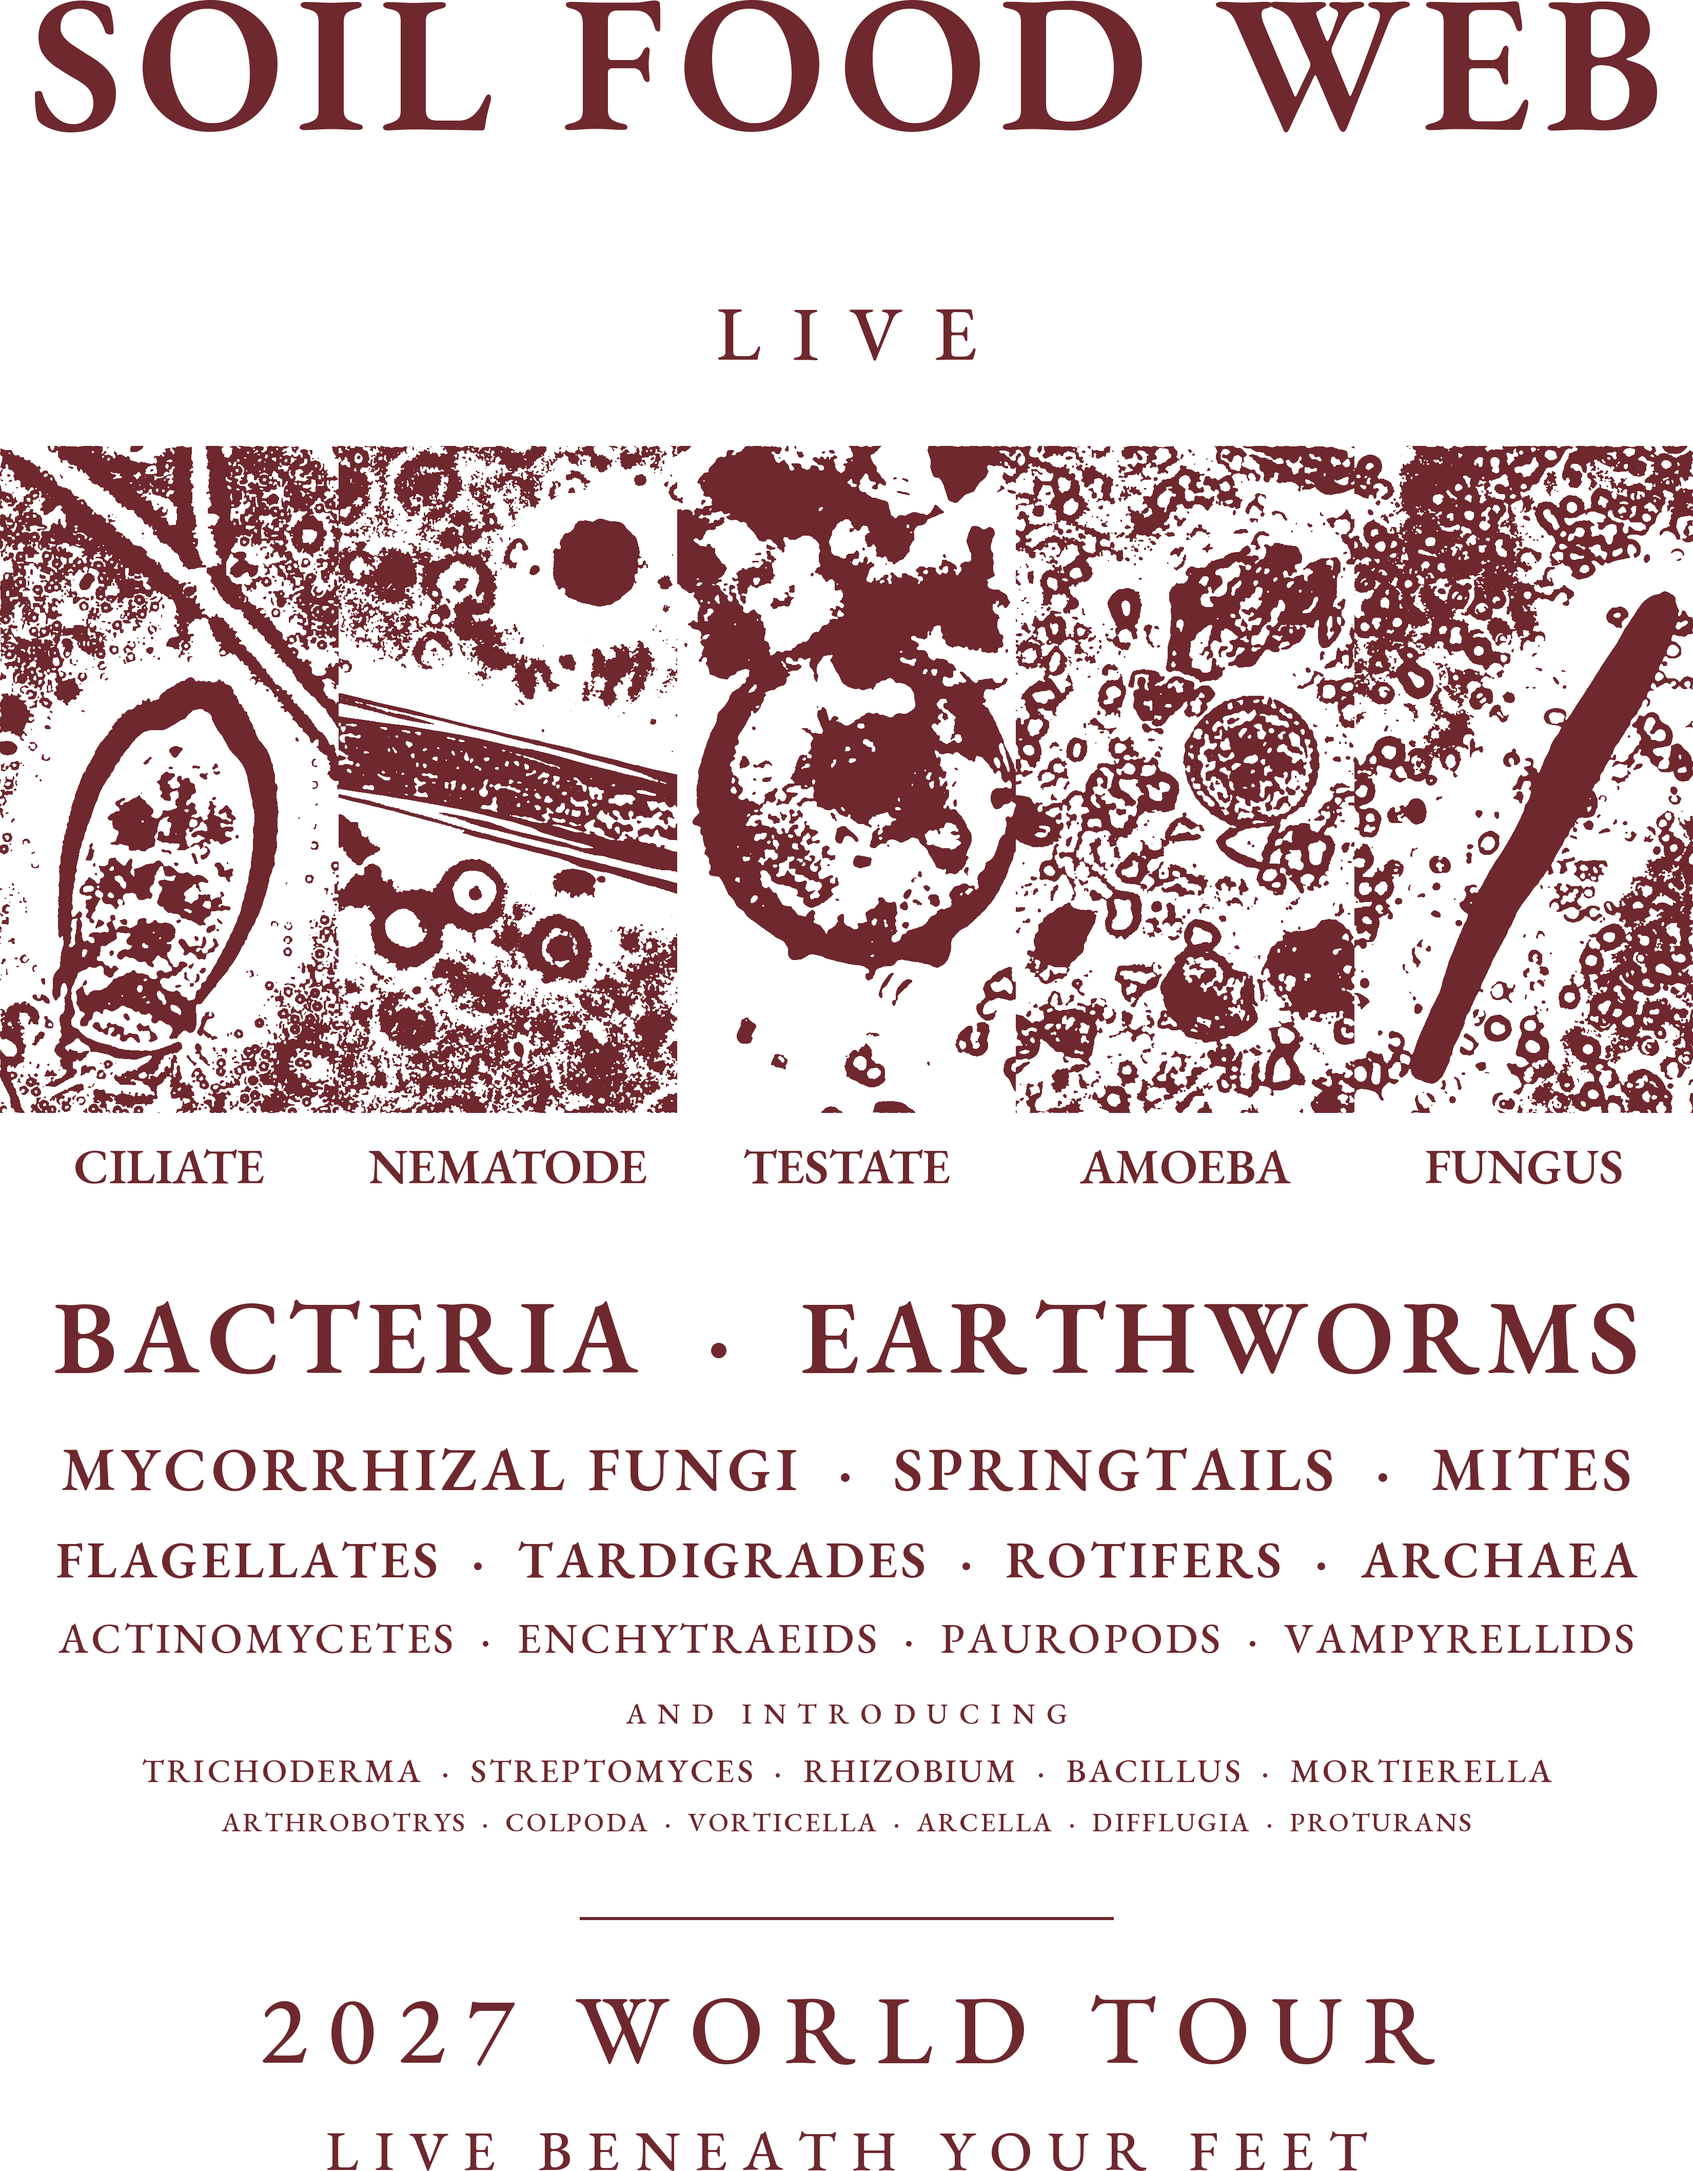
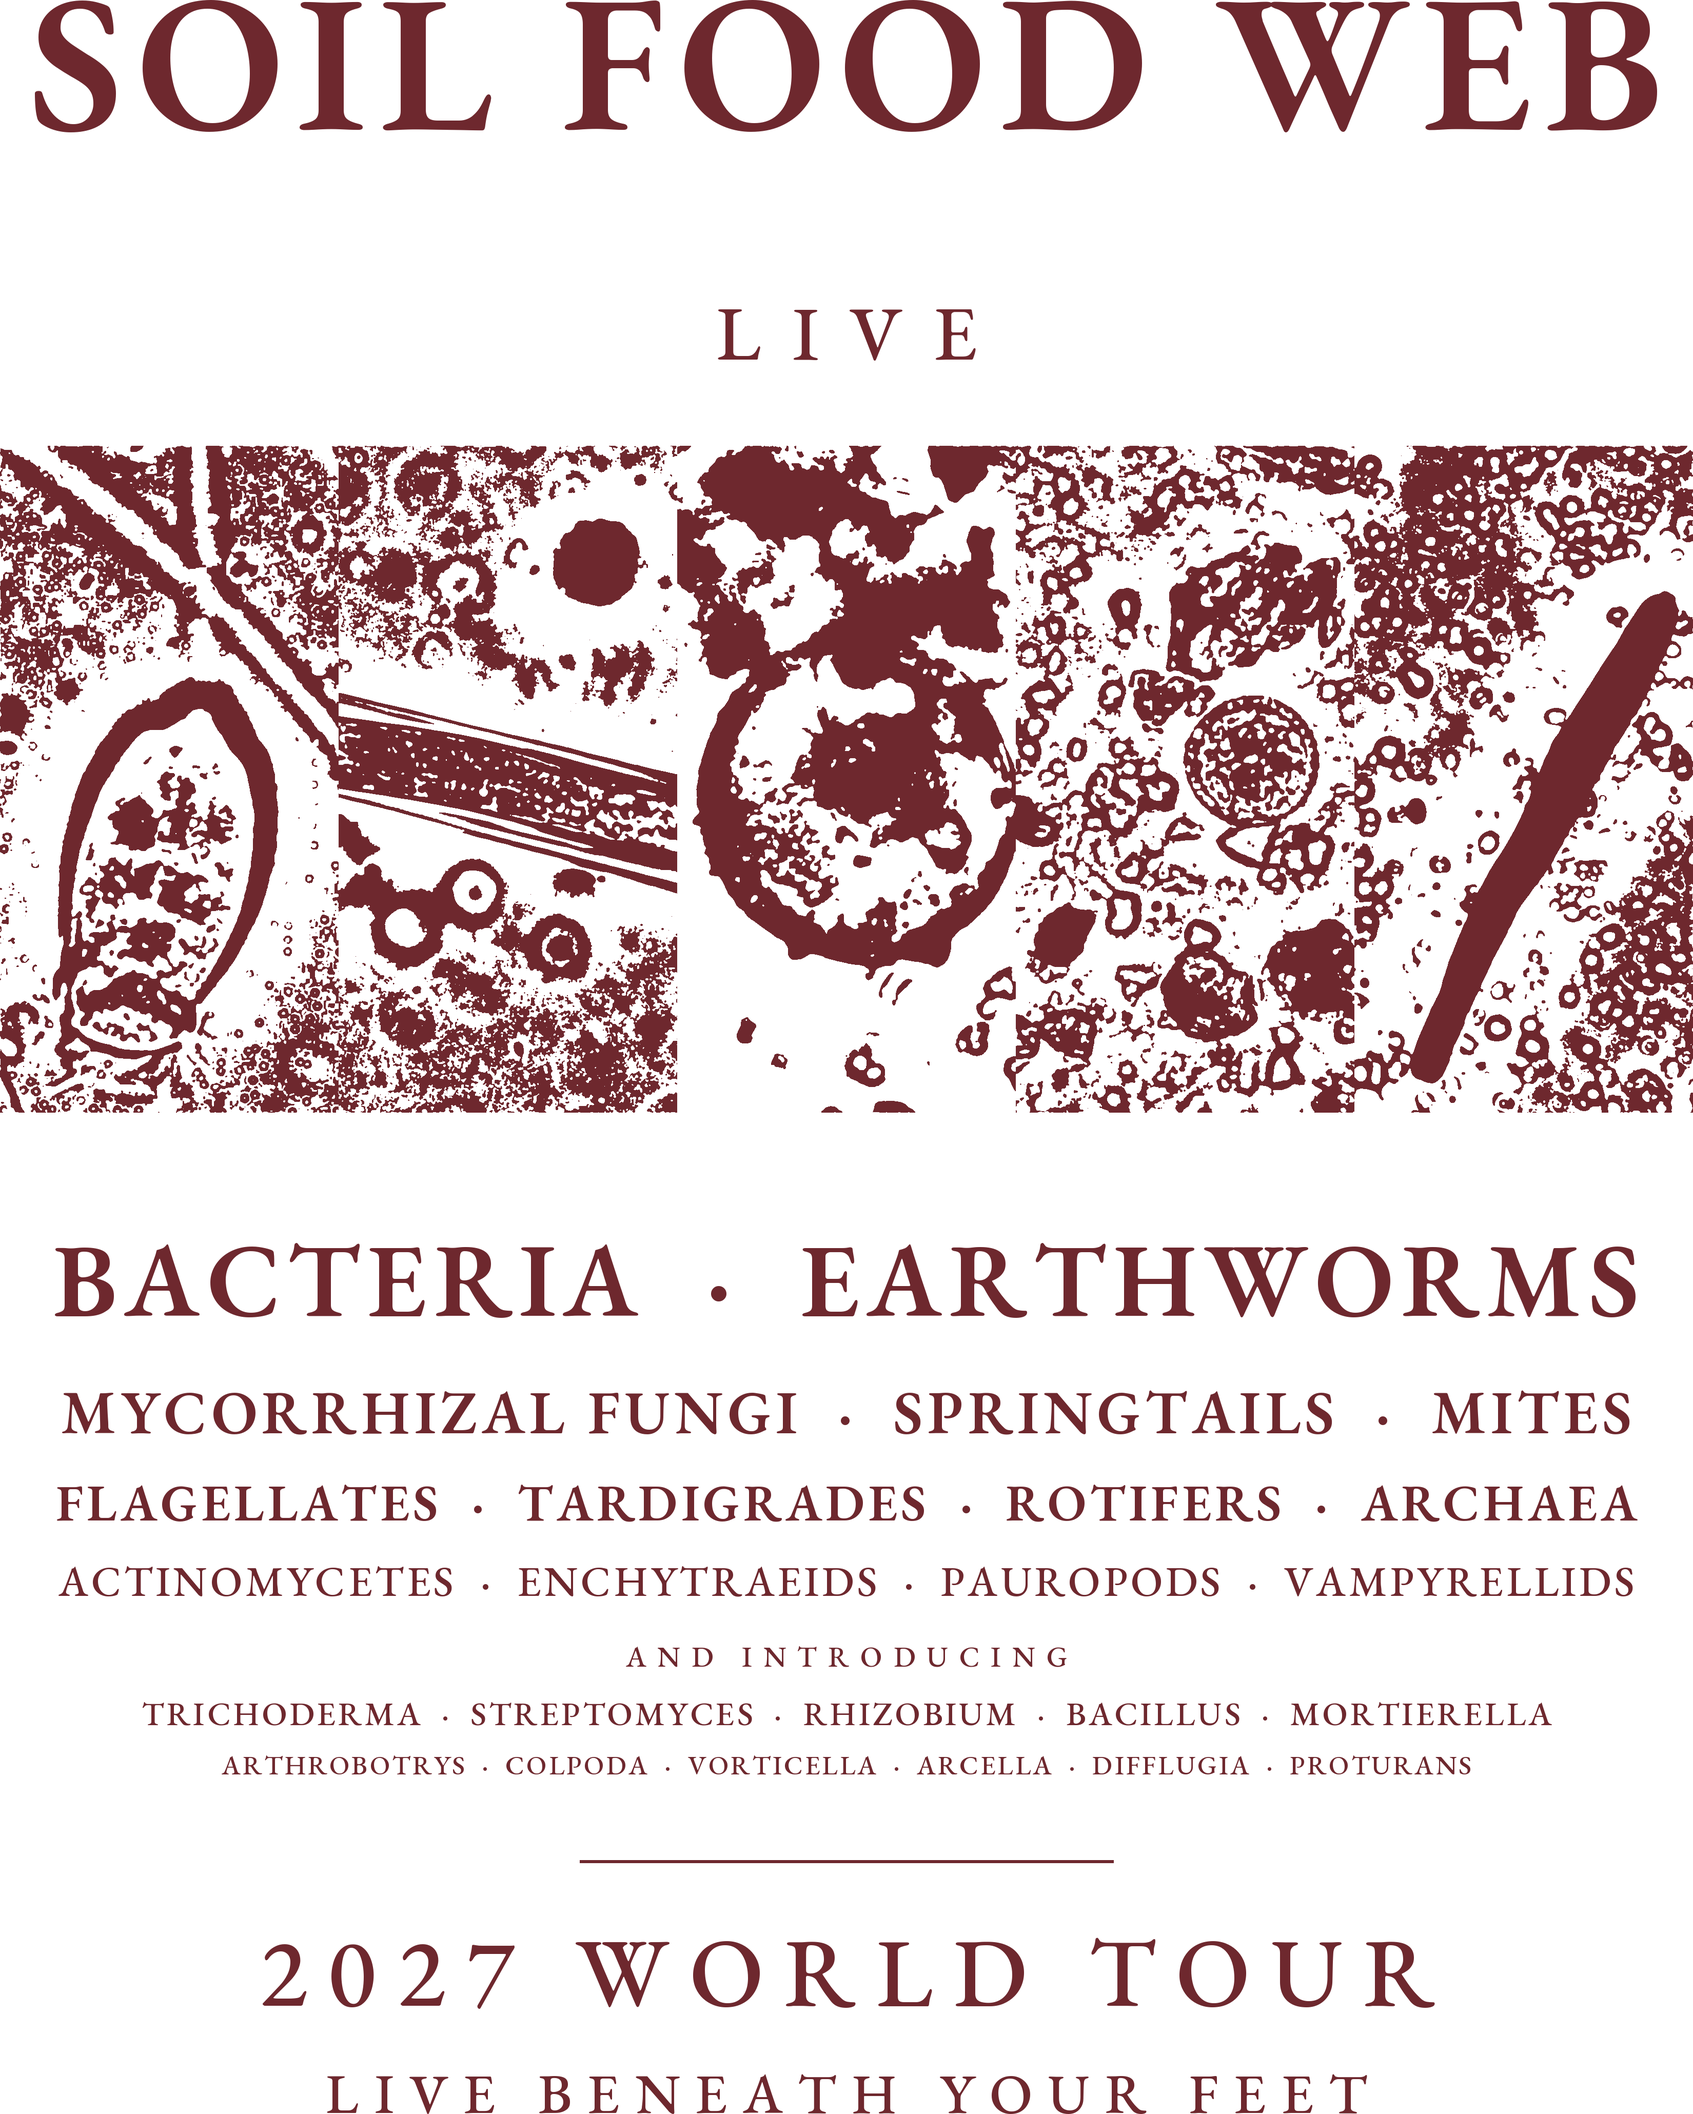
Lineup tee without panel labels
Claude-Session: https://claude.ai/code/session_019Ej1kSSSEmJ5ioM6QDNRg2

diff --git a/creative-code/scripts/concert_lineup.py b/creative-code/scripts/concert_lineup.py
@@ -44,7 +44,7 @@ def make(ink=(110,40,46),name='SFW-concert-tee-lineup'):
     spaced(760,'LIVE',150,60,500)
     f=ImageFont.truetype(B+'ebg600.ttf',96)
     for i,m in enumerate(members):
-        nm=m[5]; tw=d.textlength(nm,font=f); d.text((x0+i*pw+(pw-tw)/2,y0+ph+40),nm,font=f,fill=ink+(255,))
+        pass
     rows=[(['BACTERIA','EARTHWORMS'],250,600,14,1.55),
           (['MYCORRHIZAL FUNGI','SPRINGTAILS','MITES'],150,600,9,1.6),
           (['FLAGELLATES','TARDIGRADES','ROTIFERS','ARCHAEA'],112,600,7,1.65),
@@ -52,7 +52,7 @@ def make(ink=(110,40,46),name='SFW-concert-tee-lineup'):
           ('AND INTRODUCING',56,500,22,1.9),
           (['TRICHODERMA','STREPTOMYCES','RHIZOBIUM','BACILLUS','MORTIERELLA'],64,500,5,1.7),
           (['ARTHROBOTRYS','COLPODA','VORTICELLA','ARCELLA','DIFFLUGIA','PROTURANS'],52,500,4,1.0)]
-    y=y0+ph+300; maxw=0.94*5*pw
+    y=y0+ph+190; maxw=0.94*5*pw
     for names,size,wt,sp,lh in rows:
         t=names if isinstance(names,str) else '  ·  '.join(names)
         while True:
